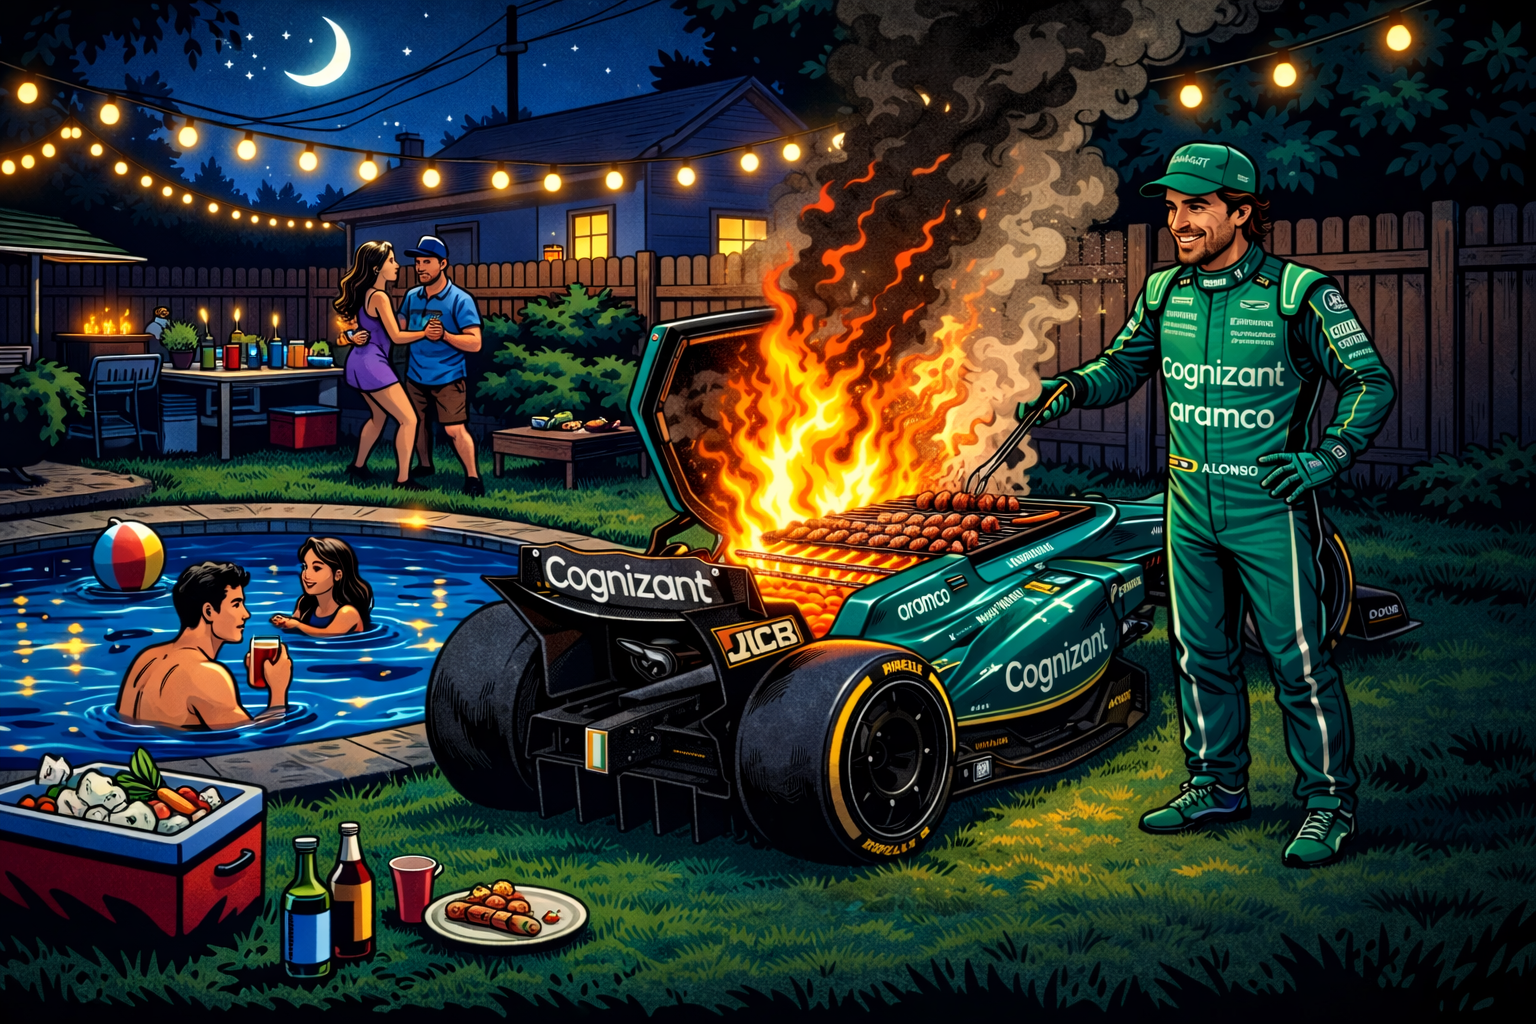
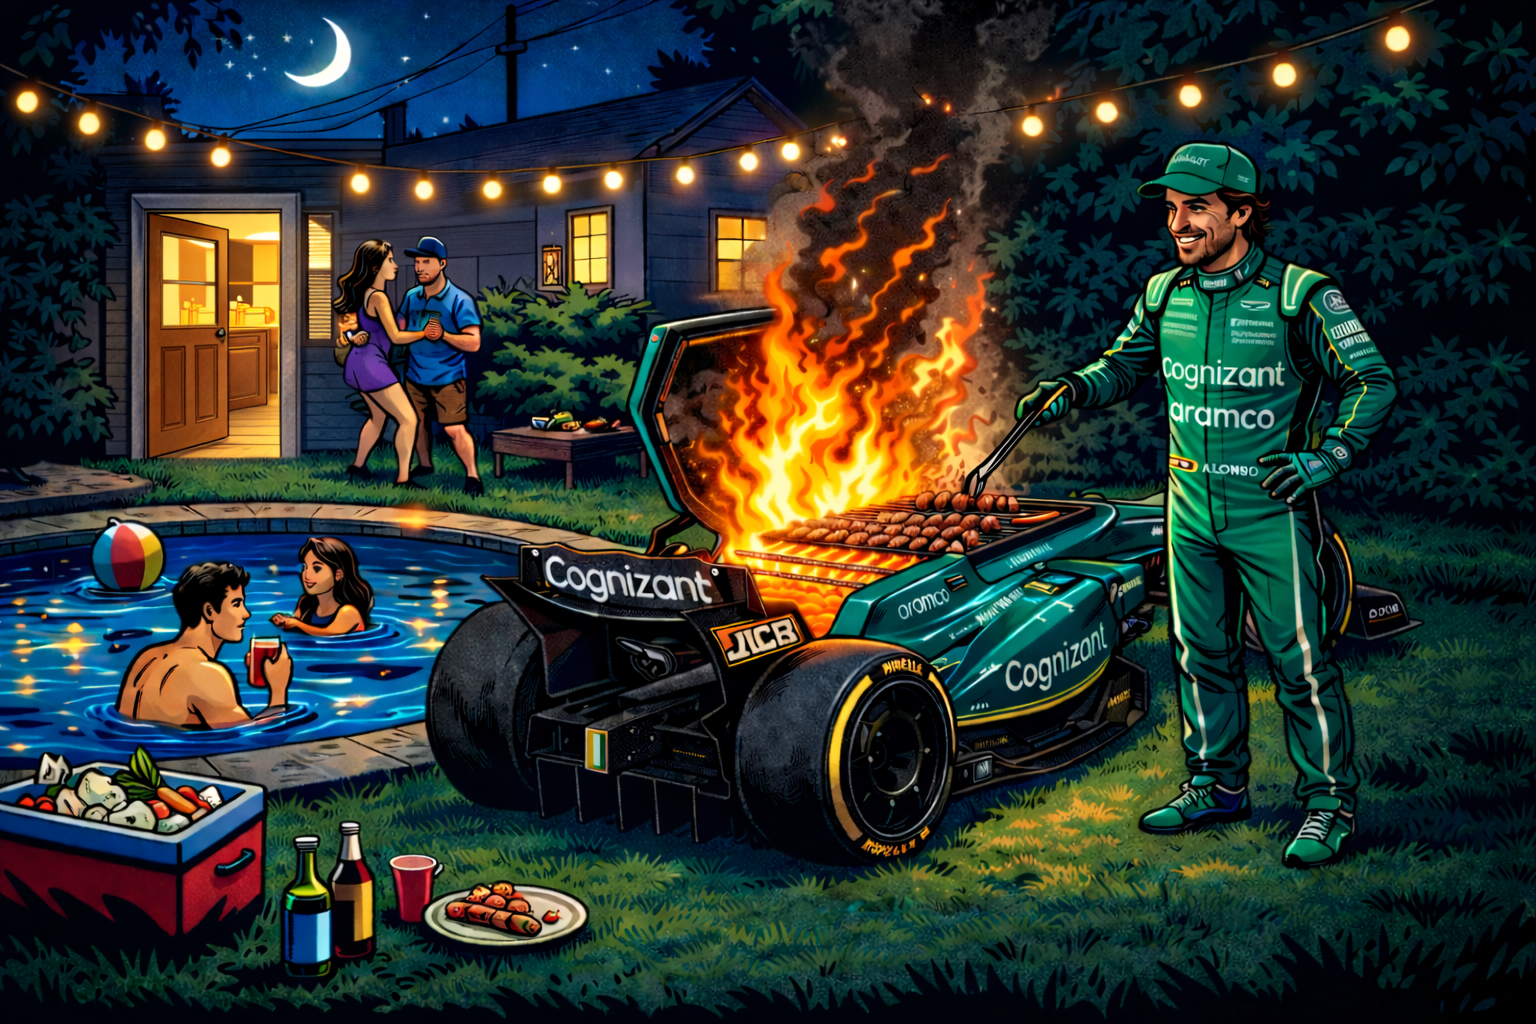
Añadida escena patio trasero

diff --git a/script.js b/script.js
@@ -41,8 +41,6 @@ function dentroCasa() {
     document.getElementById("gato").style.display = "block";
 
     document.getElementById("parrafo").innerHTML = "estoy en el slon"
-
-
 }
 
 function exit() {
@@ -52,8 +50,6 @@ function exit() {
     document.getElementById("parrafo").innerHTML = "cuanta gente"
     document.getElementById("bobesponja").style.display = "block";
     document.getElementById("gato").style.display = "none";
-
-
 }
 
 function sonidoBob() {
@@ -66,5 +62,20 @@ function miau() {
     audio.play();
 }
 
+function irPatio() {
+    document.getElementById("escena").style.backgroundImage = "url(img/patioTrasero.png)";
+    document.getElementById("gato").style.display = "none";
+    document.getElementById("exit").style.display = "none";
 
+}
 
+function volverDentro() {
+    document.getElementById("escena").style.backgroundImage = "url(img/salon.png)";
+    document.getElementById("gato").style.display = "block";
+    document.getElementById("exit").style.display = "block";
+
+}
+
+function minijuegoNano() {
+    
+}

diff --git a/index.html b/index.html
@@ -19,6 +19,11 @@
         <div class="bus" id="bus" onclick="bus()"></div>
         <div class="dentroCasa" id="dentroCasa" onclick="dentroCasa()"></div>
         <div class="exit" id="exit" onclick="exit()"></div>
+
+        <div class="patio" id="patio" onclick="irPatio()"></div>
+        <div class="volverDentro" id="volverDentro" onclick="volverDentro()"></div>
+        <div class="minijuegoNano" id="minijuegoNano" onclick="minijuegoNano()"></div>
+
         <div class="bobesponja" id="bobesponja" onclick="sonidoBob()"><audio id="miAudioBob"
                 src="audio/audiobob.mp3"></audio></div>
         <div class="gato" id="gato" onclick="miau()"><audio id="miau"
@@ -37,7 +42,7 @@
 
         <div class="texto">
             <p id="parrafo">
-                Aquí irá la historia o las pistas del Scape Room...
+                <span class="habla" id="habla"></span>Aquí irá la historia o las pistas del Scape Room...
             </p>
         </div>
     </div>

diff --git a/style.css b/style.css
@@ -108,7 +108,7 @@ background-size: contain;
 }
 
 .gato{
-    background-image: url(img/gatete.png);
+  background-image: url(img/gatete.png);
   background-size: contain;
   background-repeat: no-repeat;
   position: absolute;
@@ -117,6 +117,23 @@ background-size: contain;
   display: none;
   left: 616px;
   top: 174px;
+}
+
+.patio {
+  position: absolute;
+  width: 136px;
+  height: 284px;
+  left: 1229px;
+  top: 157px;
+}
+
+.volverDentro {
+    position: absolute;
+    width: 89px;
+    height: 165px;
+    left: 543px;
+    top: 193px;
+
 }
 
 /* .cocina {
